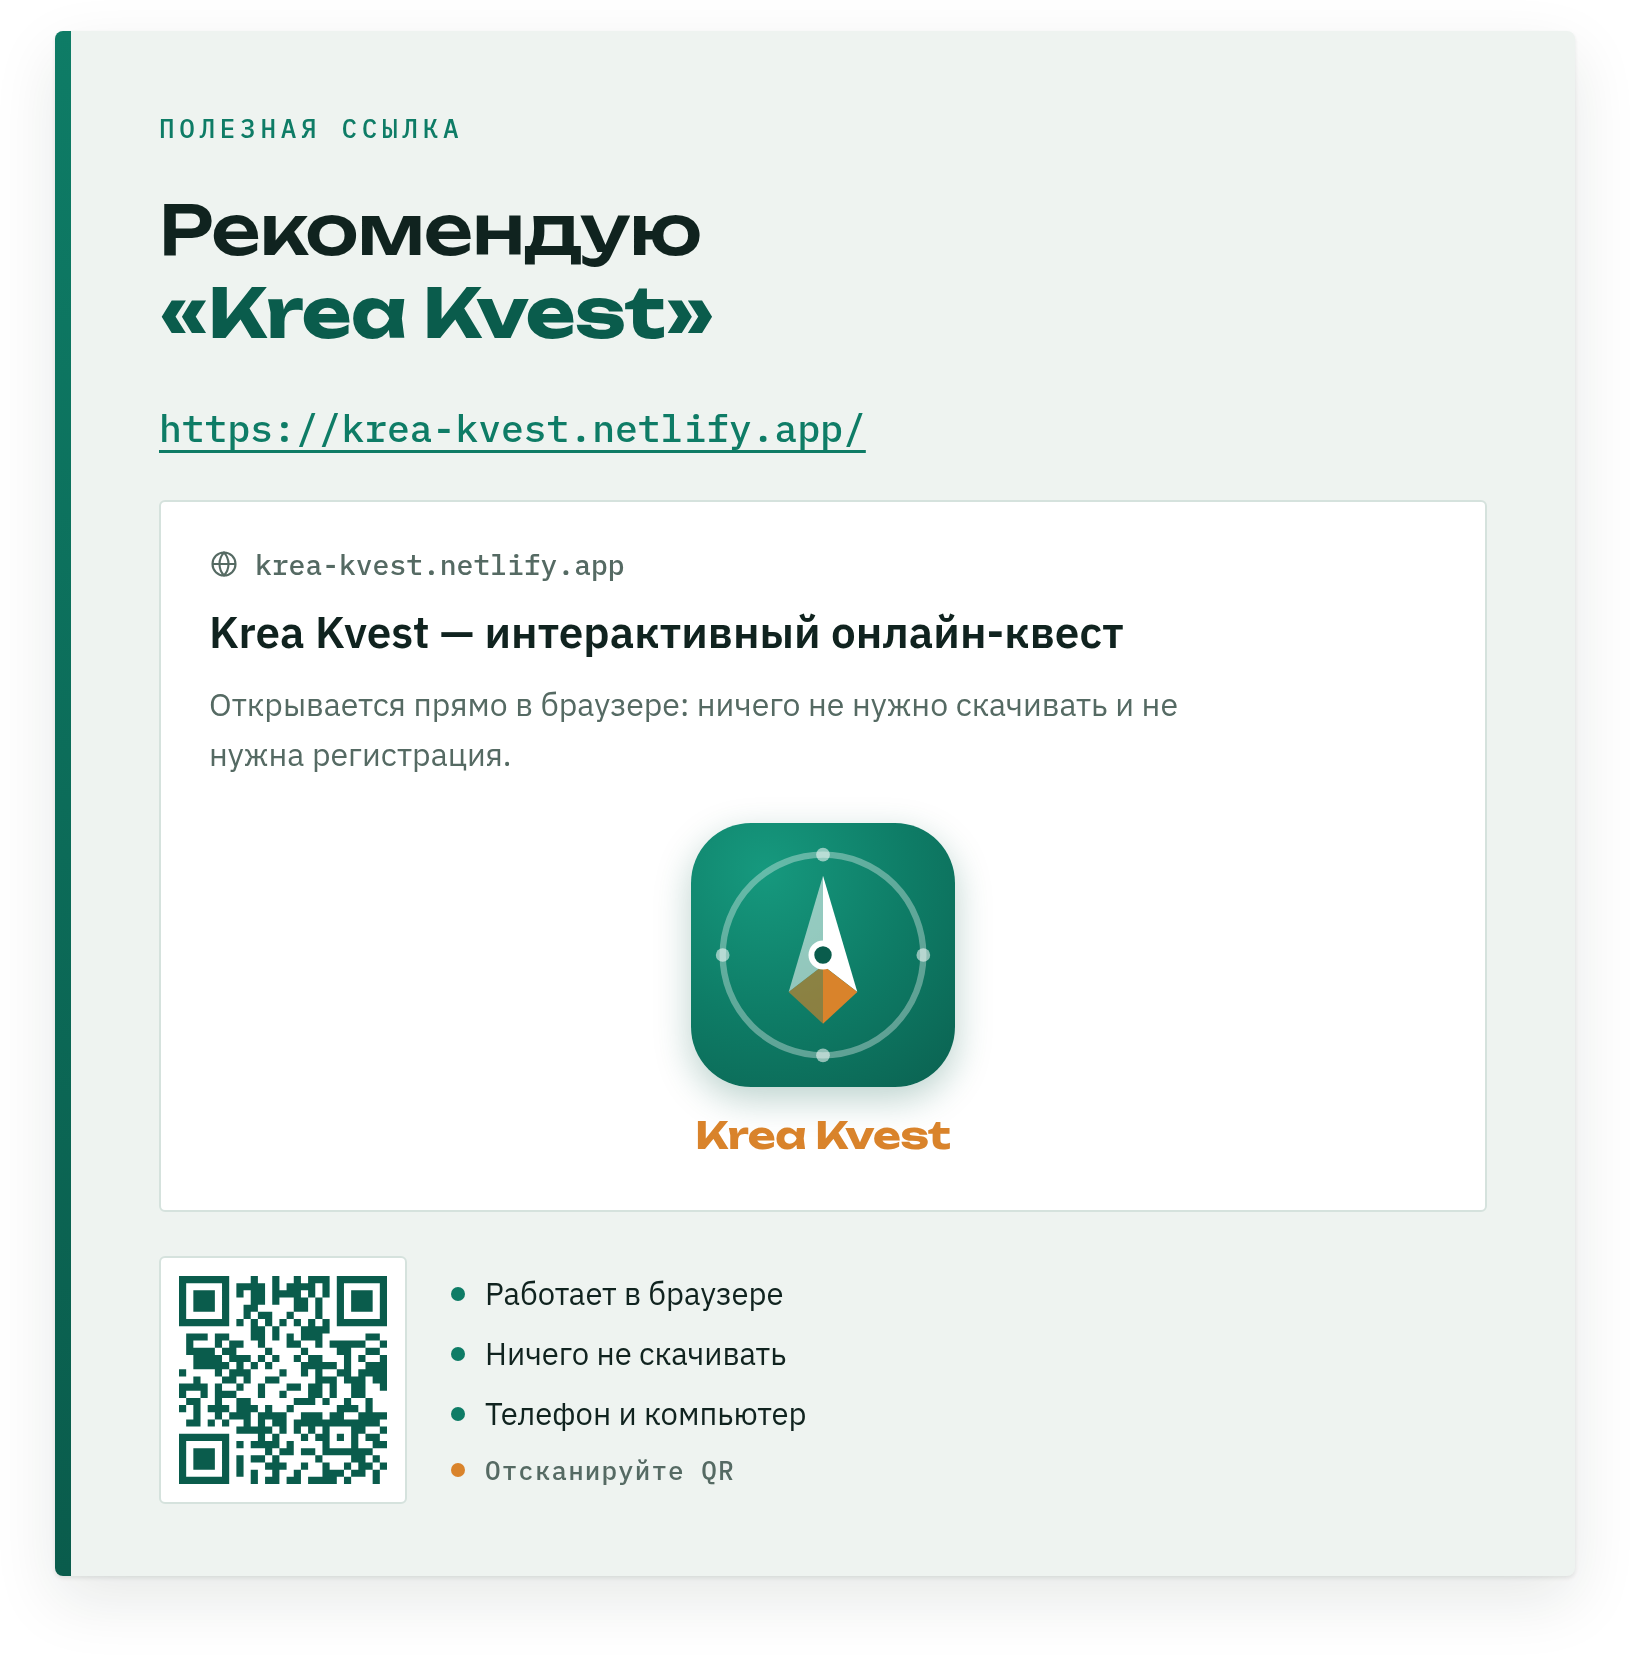
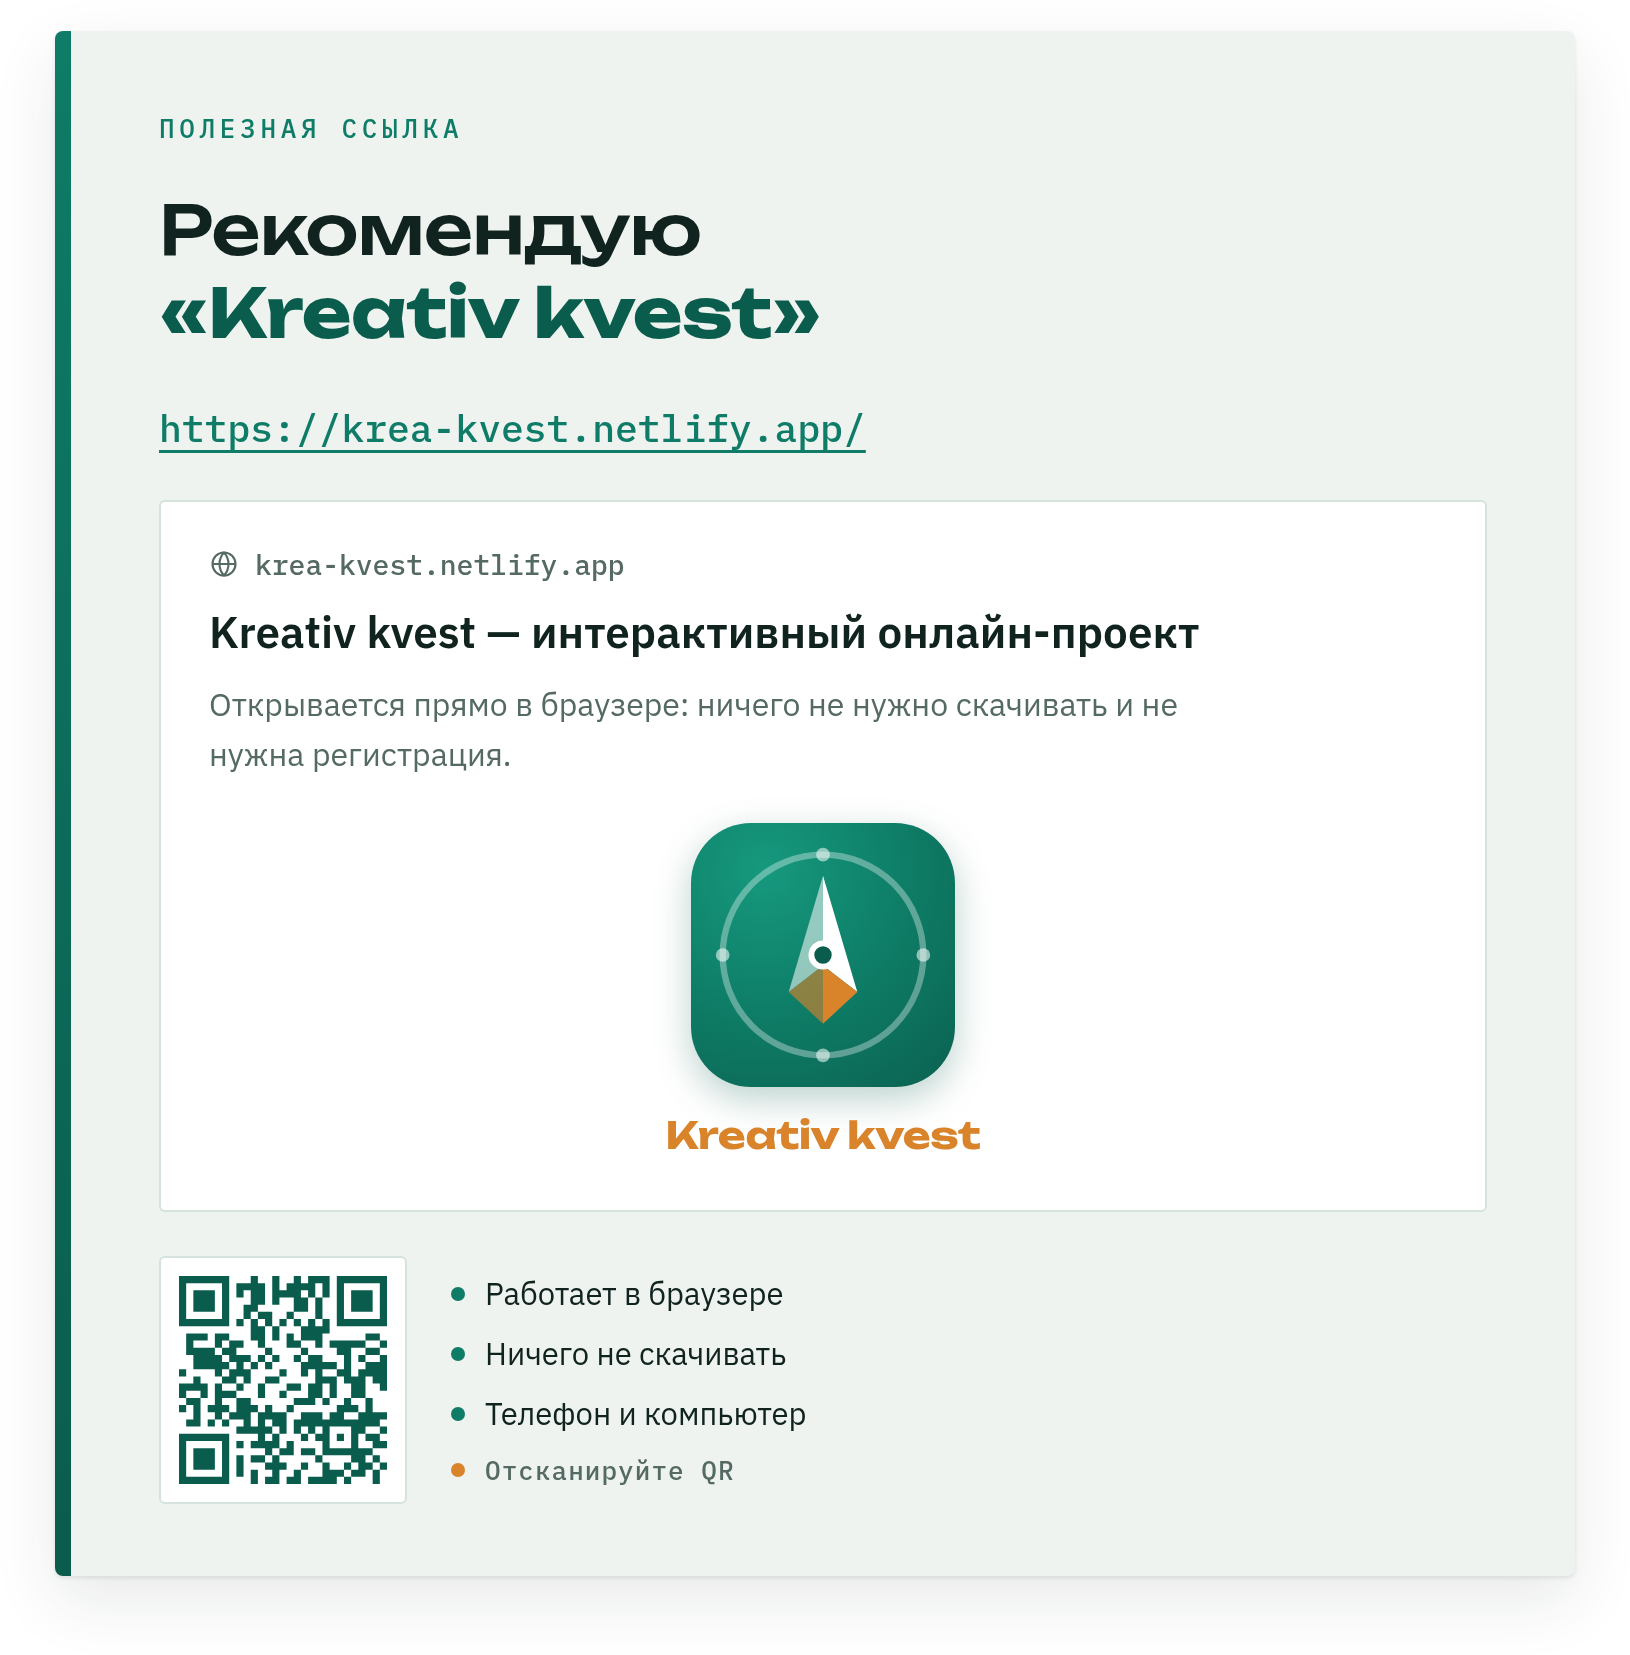
Rename the recommended project to "Kreativ kvest"
Display name only: the recommended URL, layout, palette, icon and QR code
are unchanged.

Claude-Session: https://claude.ai/code/session_01U66dFUeAjq9RCce4mXFgkw

Changed region(s): [[0.184, 0.3698, 0.7362, 0.4006], [0.2454, 0.1541, 0.5215, 0.2157], [0.3988, 0.6779, 0.6135, 0.7088]]

diff --git a/krea-kvest-card/index.html b/krea-kvest-card/index.html
@@ -1,4 +1,4 @@
-<title>Krea Kvest tavsiya kartochkasi</title>
+<title>Kreativ kvest tavsiya kartochkasi</title>
 <link rel="preconnect" href="https://fonts.googleapis.com"><link rel="preconnect" href="https://fonts.gstatic.com" crossorigin><link rel="stylesheet" href="https://fonts.googleapis.com/css2?family=Unbounded:wght@500;700&family=IBM+Plex+Sans:wght@400;500;600&family=IBM+Plex+Mono:wght@500&display=swap">
 <style>
 
@@ -313,7 +313,7 @@ footer { color: var(--fg-muted); font-size: 14px; border-top: 1px solid var(--ed
 <div class="wrap">
   <header>
     <p class="kicker">Slayd uchun tayyor grafika</p>
-    <h1>Krea Kvest tavsiya kartochkasi</h1>
+    <h1>Kreativ kvest tavsiya kartochkasi</h1>
     <p class="lede">
       Slaydning chap tomonidagi «Рекомендую» kartochkasi asosida qayta ishlangan —
       lekin bu safar tavsiya qilinadigan havola
@@ -328,12 +328,12 @@ footer { color: var(--fg-muted); font-size: 14px; border-top: 1px solid var(--ed
   <div class="rail"></div>
   <div class="body">
     <p class="eyebrow">Foydali havola</p>
-    <h1 class="headline">Men tavsiya qilaman<br><span class="name">«Krea Kvest»</span></h1>
+    <h1 class="headline">Men tavsiya qilaman<br><span class="name">«Kreativ kvest»</span></h1>
     <a class="url" href="https://krea-kvest.netlify.app/">https://krea-kvest.netlify.app/</a>
 
     <div class="preview">
       <p class="src"><svg width="15" height="15" viewBox="0 0 24 24" fill="none" aria-hidden="true"><circle cx="12" cy="12" r="9.2" stroke="currentColor" stroke-width="1.7"/><path d="M2.8 12h18.4M12 2.8c2.4 2.6 3.6 5.7 3.6 9.2s-1.2 6.6-3.6 9.2c-2.4-2.6-3.6-5.7-3.6-9.2S9.6 5.4 12 2.8z" stroke="currentColor" stroke-width="1.7" stroke-linejoin="round"/></svg>krea-kvest.netlify.app</p>
-      <h2 class="p-title">Krea Kvest — interaktiv onlayn kvest</h2>
+      <h2 class="p-title">Kreativ kvest — interaktiv onlayn loyiha</h2>
       <p class="p-desc">To‘g‘ridan-to‘g‘ri brauzerda ochiladi: hech narsa yuklab olish ham, ro‘yxatdan o‘tish ham shart emas.</p>
       <div class="icon-wrap">
         <div class="tile"><svg width="132" height="132" viewBox="-50 -50 100 100" aria-hidden="true">
@@ -348,7 +348,7 @@ footer { color: var(--fg-muted); font-size: 14px; border-top: 1px solid var(--ed
   <path d="M0 4 L-13 14 L0 26 Z" fill="#D9832B" fill-opacity=".62"/>
   <circle r="4.4" fill="#0A5C4C" stroke="#FFFFFF" stroke-width="2.2"/>
 </svg></div>
-        <p class="wordmark">Krea Kvest</p>
+        <p class="wordmark">Kreativ kvest</p>
       </div>
     </div>
 
@@ -369,12 +369,12 @@ footer { color: var(--fg-muted); font-size: 14px; border-top: 1px solid var(--ed
   <div class="rail"></div>
   <div class="body">
     <p class="eyebrow">Полезная ссылка</p>
-    <h1 class="headline">Рекомендую<br><span class="name">«Krea Kvest»</span></h1>
+    <h1 class="headline">Рекомендую<br><span class="name">«Kreativ kvest»</span></h1>
     <a class="url" href="https://krea-kvest.netlify.app/">https://krea-kvest.netlify.app/</a>
 
     <div class="preview">
       <p class="src"><svg width="15" height="15" viewBox="0 0 24 24" fill="none" aria-hidden="true"><circle cx="12" cy="12" r="9.2" stroke="currentColor" stroke-width="1.7"/><path d="M2.8 12h18.4M12 2.8c2.4 2.6 3.6 5.7 3.6 9.2s-1.2 6.6-3.6 9.2c-2.4-2.6-3.6-5.7-3.6-9.2S9.6 5.4 12 2.8z" stroke="currentColor" stroke-width="1.7" stroke-linejoin="round"/></svg>krea-kvest.netlify.app</p>
-      <h2 class="p-title">Krea Kvest — интерактивный онлайн-квест</h2>
+      <h2 class="p-title">Kreativ kvest — интерактивный онлайн-проект</h2>
       <p class="p-desc">Открывается прямо в браузере: ничего не нужно скачивать и не нужна регистрация.</p>
       <div class="icon-wrap">
         <div class="tile"><svg width="132" height="132" viewBox="-50 -50 100 100" aria-hidden="true">
@@ -389,7 +389,7 @@ footer { color: var(--fg-muted); font-size: 14px; border-top: 1px solid var(--ed
   <path d="M0 4 L-13 14 L0 26 Z" fill="#D9832B" fill-opacity=".62"/>
   <circle r="4.4" fill="#0A5C4C" stroke="#FFFFFF" stroke-width="2.2"/>
 </svg></div>
-        <p class="wordmark">Krea Kvest</p>
+        <p class="wordmark">Kreativ kvest</p>
       </div>
     </div>
 

diff --git a/krea-kvest-card/card-ru.html b/krea-kvest-card/card-ru.html
@@ -2,7 +2,7 @@
 <html lang="ru">
 <head>
 <meta charset="utf-8">
-<title>Krea Kvest — карточка-рекомендация</title>
+<title>Kreativ kvest — карточка-рекомендация</title>
 <link rel="preconnect" href="https://fonts.googleapis.com"><link rel="preconnect" href="https://fonts.gstatic.com" crossorigin><link rel="stylesheet" href="https://fonts.googleapis.com/css2?family=Unbounded:wght@500;700&family=IBM+Plex+Sans:wght@400;500;600&family=IBM+Plex+Mono:wght@500&display=swap">
 <style>
   * { margin: 0; padding: 0; box-sizing: border-box; }
@@ -204,12 +204,12 @@
   <div class="rail"></div>
   <div class="body">
     <p class="eyebrow">Полезная ссылка</p>
-    <h1 class="headline">Рекомендую<br><span class="name">«Krea Kvest»</span></h1>
+    <h1 class="headline">Рекомендую<br><span class="name">«Kreativ kvest»</span></h1>
     <a class="url" href="https://krea-kvest.netlify.app/">https://krea-kvest.netlify.app/</a>
 
     <div class="preview">
       <p class="src"><svg width="15" height="15" viewBox="0 0 24 24" fill="none" aria-hidden="true"><circle cx="12" cy="12" r="9.2" stroke="currentColor" stroke-width="1.7"/><path d="M2.8 12h18.4M12 2.8c2.4 2.6 3.6 5.7 3.6 9.2s-1.2 6.6-3.6 9.2c-2.4-2.6-3.6-5.7-3.6-9.2S9.6 5.4 12 2.8z" stroke="currentColor" stroke-width="1.7" stroke-linejoin="round"/></svg>krea-kvest.netlify.app</p>
-      <h2 class="p-title">Krea Kvest — интерактивный онлайн-квест</h2>
+      <h2 class="p-title">Kreativ kvest — интерактивный онлайн-проект</h2>
       <p class="p-desc">Открывается прямо в браузере: ничего не нужно скачивать и не нужна регистрация.</p>
       <div class="icon-wrap">
         <div class="tile"><svg width="132" height="132" viewBox="-50 -50 100 100" aria-hidden="true">
@@ -224,7 +224,7 @@
   <path d="M0 4 L-13 14 L0 26 Z" fill="#D9832B" fill-opacity=".62"/>
   <circle r="4.4" fill="#0A5C4C" stroke="#FFFFFF" stroke-width="2.2"/>
 </svg></div>
-        <p class="wordmark">Krea Kvest</p>
+        <p class="wordmark">Kreativ kvest</p>
       </div>
     </div>
 

diff --git a/krea-kvest-card/card-uz.html b/krea-kvest-card/card-uz.html
@@ -2,7 +2,7 @@
 <html lang="uz">
 <head>
 <meta charset="utf-8">
-<title>Krea Kvest — tavsiya kartochkasi</title>
+<title>Kreativ kvest — tavsiya kartochkasi</title>
 <link rel="preconnect" href="https://fonts.googleapis.com"><link rel="preconnect" href="https://fonts.gstatic.com" crossorigin><link rel="stylesheet" href="https://fonts.googleapis.com/css2?family=Unbounded:wght@500;700&family=IBM+Plex+Sans:wght@400;500;600&family=IBM+Plex+Mono:wght@500&display=swap">
 <style>
   * { margin: 0; padding: 0; box-sizing: border-box; }
@@ -204,12 +204,12 @@
   <div class="rail"></div>
   <div class="body">
     <p class="eyebrow">Foydali havola</p>
-    <h1 class="headline">Men tavsiya qilaman<br><span class="name">«Krea Kvest»</span></h1>
+    <h1 class="headline">Men tavsiya qilaman<br><span class="name">«Kreativ kvest»</span></h1>
     <a class="url" href="https://krea-kvest.netlify.app/">https://krea-kvest.netlify.app/</a>
 
     <div class="preview">
       <p class="src"><svg width="15" height="15" viewBox="0 0 24 24" fill="none" aria-hidden="true"><circle cx="12" cy="12" r="9.2" stroke="currentColor" stroke-width="1.7"/><path d="M2.8 12h18.4M12 2.8c2.4 2.6 3.6 5.7 3.6 9.2s-1.2 6.6-3.6 9.2c-2.4-2.6-3.6-5.7-3.6-9.2S9.6 5.4 12 2.8z" stroke="currentColor" stroke-width="1.7" stroke-linejoin="round"/></svg>krea-kvest.netlify.app</p>
-      <h2 class="p-title">Krea Kvest — interaktiv onlayn kvest</h2>
+      <h2 class="p-title">Kreativ kvest — interaktiv onlayn loyiha</h2>
       <p class="p-desc">To‘g‘ridan-to‘g‘ri brauzerda ochiladi: hech narsa yuklab olish ham, ro‘yxatdan o‘tish ham shart emas.</p>
       <div class="icon-wrap">
         <div class="tile"><svg width="132" height="132" viewBox="-50 -50 100 100" aria-hidden="true">
@@ -224,7 +224,7 @@
   <path d="M0 4 L-13 14 L0 26 Z" fill="#D9832B" fill-opacity=".62"/>
   <circle r="4.4" fill="#0A5C4C" stroke="#FFFFFF" stroke-width="2.2"/>
 </svg></div>
-        <p class="wordmark">Krea Kvest</p>
+        <p class="wordmark">Kreativ kvest</p>
       </div>
     </div>
 

diff --git a/krea-kvest-card/build_card.py b/krea-kvest-card/build_card.py
@@ -1,5 +1,5 @@
 #!/usr/bin/env python3
-"""Build the "Krea Kvest" recommendation card in Uzbek and Russian.
+"""Build the "Kreativ kvest" recommendation card in Uzbek and Russian.
 
 Produces, next to this script:
   card-uz.html / card-ru.html  - standalone card, sized exactly to the card box
@@ -48,14 +48,14 @@ def rebuild_qr() -> str:
 UZ = {
     "lang": "uz",
     "file": "card-uz.html",
-    "doc_title": "Krea Kvest — tavsiya kartochkasi",
+    "doc_title": "Kreativ kvest — tavsiya kartochkasi",
     "eyebrow": "Foydali havola",
     "headline_lead": "Men tavsiya qilaman",
-    "name": "Krea Kvest",
-    "preview_title": "Krea Kvest — interaktiv onlayn kvest",
+    "name": "Kreativ kvest",
+    "preview_title": "Kreativ kvest — interaktiv onlayn loyiha",
     "preview_desc": "To‘g‘ridan-to‘g‘ri brauzerda ochiladi: hech narsa yuklab olish "
     "ham, ro‘yxatdan o‘tish ham shart emas.",
-    "wordmark": "Krea Kvest",
+    "wordmark": "Kreativ kvest",
     "qr_hint": "QR-ni skaner qiling",
     "chips": ["Brauzerda ochiladi", "Yuklab olish shart emas", "Telefon va kompyuterda"],
 }
@@ -63,14 +63,14 @@ UZ = {
 RU = {
     "lang": "ru",
     "file": "card-ru.html",
-    "doc_title": "Krea Kvest — карточка-рекомендация",
+    "doc_title": "Kreativ kvest — карточка-рекомендация",
     "eyebrow": "Полезная ссылка",
     "headline_lead": "Рекомендую",
-    "name": "Krea Kvest",
-    "preview_title": "Krea Kvest — интерактивный онлайн-квест",
+    "name": "Kreativ kvest",
+    "preview_title": "Kreativ kvest — интерактивный онлайн-проект",
     "preview_desc": "Открывается прямо в браузере: ничего не нужно скачивать "
     "и не нужна регистрация.",
-    "wordmark": "Krea Kvest",
+    "wordmark": "Kreativ kvest",
     "qr_hint": "Отсканируйте QR",
     "chips": ["Работает в браузере", "Ничего не скачивать", "Телефон и компьютер"],
 }
@@ -490,7 +490,7 @@ code {
 footer { color: var(--fg-muted); font-size: 14px; border-top: 1px solid var(--edge); padding-top: 20px; }
 """
 
-PAGE = """<title>Krea Kvest tavsiya kartochkasi</title>
+PAGE = """<title>Kreativ kvest tavsiya kartochkasi</title>
 {fonts}
 <style>
 {page_css}
@@ -500,7 +500,7 @@ PAGE = """<title>Krea Kvest tavsiya kartochkasi</title>
 <div class="wrap">
   <header>
     <p class="kicker">Slayd uchun tayyor grafika</p>
-    <h1>Krea Kvest tavsiya kartochkasi</h1>
+    <h1>Kreativ kvest tavsiya kartochkasi</h1>
     <p class="lede">
       Slaydning chap tomonidagi «Рекомендую» kartochkasi asosida qayta ishlangan —
       lekin bu safar tavsiya qilinadigan havola

diff --git a/krea-kvest-card/README.md b/krea-kvest-card/README.md
@@ -1,4 +1,4 @@
-# Krea Kvest — tavsiya kartochkasi
+# Kreativ kvest — tavsiya kartochkasi
 
 Slaydga qo'yish uchun tayyor kartochka: https://krea-kvest.netlify.app/ havolasini tavsiya qiladi.
 
